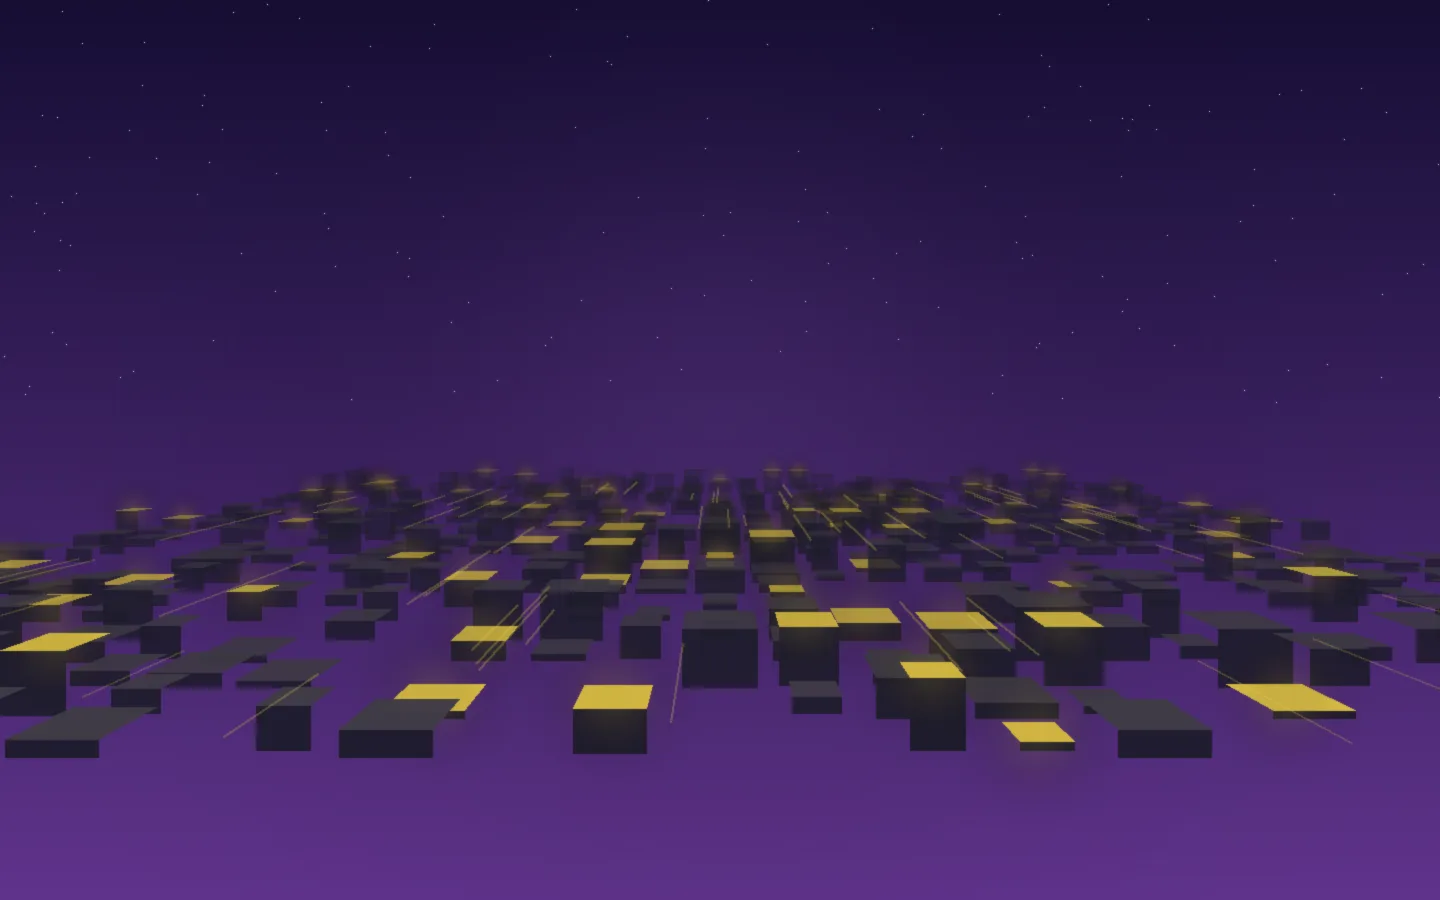
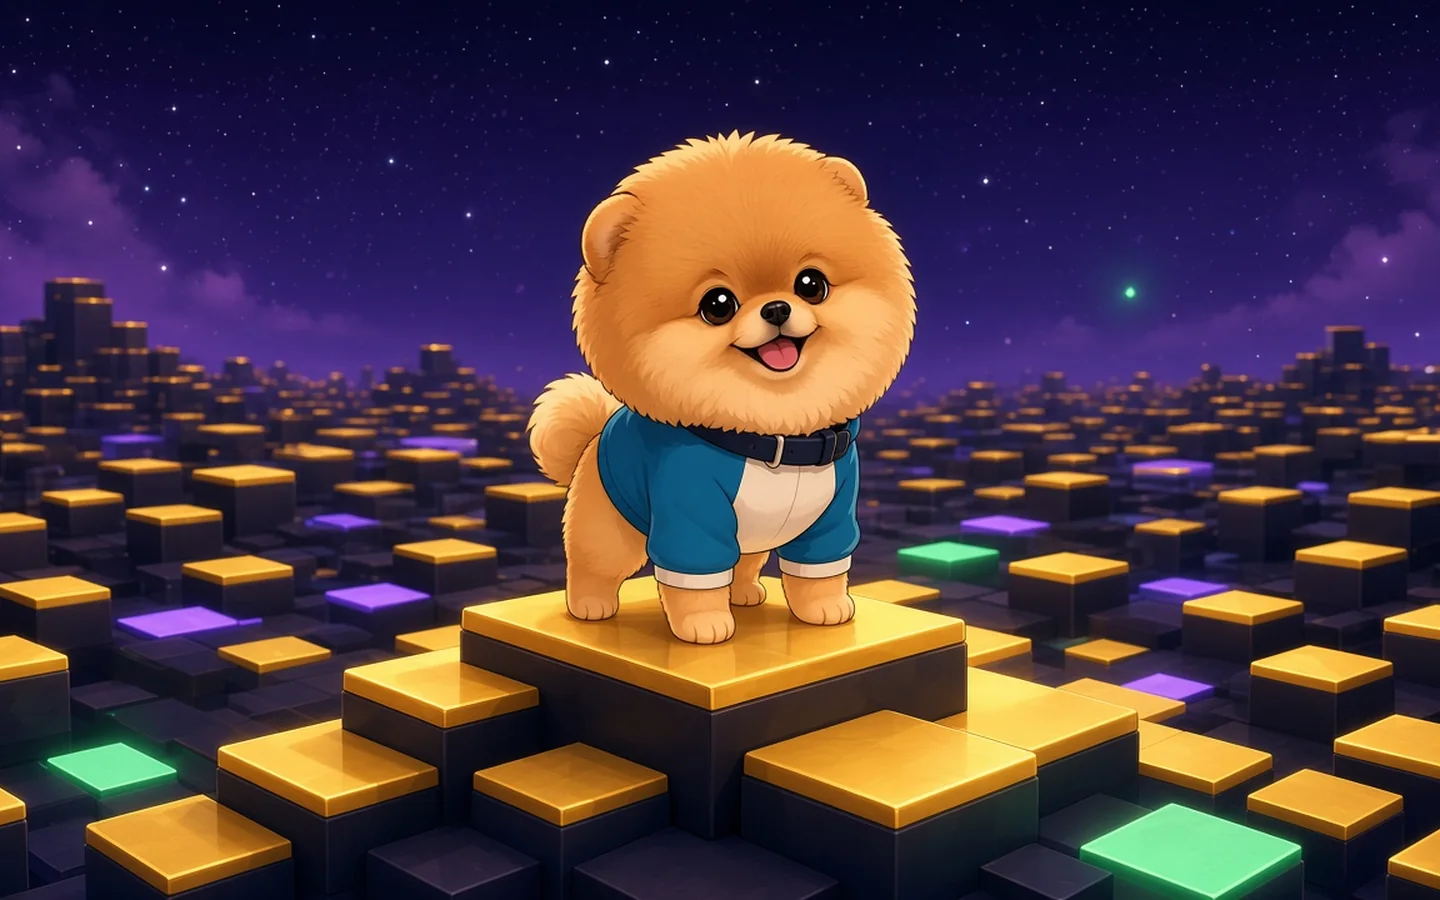
jiffpom: new meme, character and background images (#43)
Replace placeholder backgrounds and logo stand-ins with illustrated Jiff Pom art in the die-floor template slots.

diff --git a/jiffpom/index.html b/jiffpom/index.html
@@ -504,7 +504,7 @@ html.reduced-motion .mx3d-tilt{transform:none!important}
 /* ===== c55-gigahug-diefloor ===== */
 /* c55-gigahug-diefloor — adapted from https://gigahug.top/ (layout/type/motion language only; no source branding, mascot or copy).
    Art direction: a character standing on a glowing extruded voxel "die floor" under a dusk-violet sky, climbing numbered levels L0→LID. */
-:root{--bg1:url(assets/tpl/bg1.webp?v=64a5d4e6);--bg2:url(assets/tpl/bg2.webp?v=18e8eb57);--bg3:url(assets/tpl/bg3.webp?v=cc3fbb24);--a:#f2d34a;--a2:#8a3fd1;--on:#171a30;--bg:#0c0d18;--bg-2:#130c18;--ink:#f6f4ea;--muted:#cbc8b4;--line:color-mix(in srgb,var(--ink) 14%,transparent);--panel:color-mix(in srgb,var(--bg-2) 72%,transparent);--glow:color-mix(in srgb,var(--a) 40%,transparent);--part:var(--a);--grad:linear-gradient(100deg,var(--a),color-mix(in srgb,var(--a) 55%,#fff));--display:'Schibsted Grotesk','Arial Black',sans-serif;--body:'Inter Tight',system-ui,sans-serif;--mono:'Martian Mono',ui-monospace,monospace;--dur-fast:160ms;--dur:520ms;--ease-out:cubic-bezier(.16,1,.3,1);--mq-speed:38s}
+:root{--bg1:url(assets/tpl/bg1.webp?v=01171034);--bg2:url(assets/tpl/bg2.webp?v=1210f903);--bg3:url(assets/tpl/bg3.webp?v=536915a4);--a:#f2d34a;--a2:#8a3fd1;--on:#171a30;--bg:#0c0d18;--bg-2:#130c18;--ink:#f6f4ea;--muted:#cbc8b4;--line:color-mix(in srgb,var(--ink) 14%,transparent);--panel:color-mix(in srgb,var(--bg-2) 72%,transparent);--glow:color-mix(in srgb,var(--a) 40%,transparent);--part:var(--a);--grad:linear-gradient(100deg,var(--a),color-mix(in srgb,var(--a) 55%,#fff));--display:'Schibsted Grotesk','Arial Black',sans-serif;--body:'Inter Tight',system-ui,sans-serif;--mono:'Martian Mono',ui-monospace,monospace;--dur-fast:160ms;--dur:520ms;--ease-out:cubic-bezier(.16,1,.3,1);--mq-speed:38s}
 html{background:var(--bg);scroll-padding-top:90px}html,body{overflow-x:clip!important}body{margin:0;color:var(--ink);background:var(--bg);font:16px/1.6 var(--body);-webkit-font-smoothing:antialiased}img{object-fit:contain}a{color:inherit;text-decoration:none}button{color:inherit;font:inherit}h1,h2,h3,p{margin:0}h2,h3{font-family:var(--display);letter-spacing:-.03em;line-height:1.02}h2{font-size:clamp(36px,5vw,72px);font-weight:900}h3{font-size:22px;font-weight:800}section{position:relative;padding:110px 0}.wrap{width:min(1240px,calc(100% - 64px));margin-inline:auto;position:relative;z-index:2}.hl{color:var(--a)}
 .lvl{font:500 11px var(--mono);letter-spacing:.2em;text-transform:uppercase;color:var(--a);margin-bottom:18px;display:block}.lede{color:var(--muted);font-size:17px;max-width:56ch;margin-top:18px}
 .nav{position:fixed;z-index:80;left:0;right:0;top:0;min-height:68px;padding:12px 4vw;display:flex;align-items:center;justify-content:space-between;gap:20px;background:linear-gradient(color-mix(in srgb,var(--bg) 88%,transparent),transparent)}.brand{display:flex;gap:10px;align-items:center;min-width:0;font:900 18px var(--display);letter-spacing:-.02em}.brand img{width:36px;height:36px;border-radius:9px}.brand span{overflow:hidden;text-overflow:ellipsis;white-space:nowrap;max-width:220px}.nav-links{display:flex;gap:22px;font:400 12px var(--mono)}.nav-links a{padding-block:12px;color:var(--ink)}.nav-links a b{color:var(--a);font-weight:500;margin-right:6px}
@@ -544,16 +544,16 @@ a:focus-visible,button:focus-visible{outline:2px solid var(--a);outline-offset:4
 <section class="hero"><div class="bg-slot slot-one" data-bg="1" aria-hidden="true"></div><div class="wrap"><div class="hero-copy"><span class="lvl">L0 · DIE FLOOR · $JIFFPOM</span><h1 class="wordmark" data-dd-fit="250">Jiff Pom</h1></div>
 <div class="hero-grid"><div class="hero-copy"><p class="statement">Every holder a connection. <span class="hl">One community, fully powered.</span></p><p class="lede">The most memeable Jiff Pom on Solana. The most famous dog on social media</p><div class="cta-row"><a class="btn btn-main btn-shine btn-pulse" href="https://pump.fun/coin/2q8rC13SDcA3rcXHw5CoNux3bAMa5k7fje2JpZ8Ppump" data-buy data-magnetic><img class="dexic" src="assets/dex.png?v=111fa3a9" alt="Pump.fun"> Buy $JIFFPOM <span class="dexon">on Pump.fun</span></a><a class="btn btn-ghost" href="#core">Climb to the core ↑</a></div>
 <div class="ca-card"><span class="lvl">CONTRACT · KEEP IT CLOSE</span><div class="ca-box"><span class="ca-text">2q8rC13SDcA3rcXHw5CoNux3bAMa5k7fje2JpZ8Ppump</span><button class="copy-btn" data-copy type="button" aria-label="Copy contract address"><svg class="ico" viewBox="0 0 24 24" aria-hidden="true"><path d="M16 1H4a2 2 0 00-2 2v14h2V3h12zm3 4H8a2 2 0 00-2 2v14a2 2 0 002 2h11a2 2 0 002-2V7a2 2 0 00-2-2zm0 16H8V7h11z"/></svg> Copy</button></div><div class="chips"><a href="https://dexscreener.com/solana/2q8rC13SDcA3rcXHw5CoNux3bAMa5k7fje2JpZ8Ppump?embed=1&amp;loadChartSettings=0&amp;trades=0&amp;tabs=0&amp;info=0&amp;chartLeftToolbar=0&amp;chartTheme=dark&amp;theme=dark&amp;chartStyle=1&amp;chartType=usd&amp;interval=15"><svg class="ico" viewBox="0 0 24 24" aria-hidden="true"><path d="M3 3h2v16h16v2H3zm4 11l4-4 3 3 5-6 1.5 1.3L14 16l-3-3-2.6 2.6z"/></svg> Chart</a><a href="https://x.com/jiffpommeme"><svg class="ico" viewBox="0 0 24 24" aria-hidden="true"><path d="M18.244 2.25h3.308l-7.227 8.26 8.502 11.24H16.17l-5.214-6.817L4.99 21.75H1.68l7.73-8.835L1.254 2.25H8.08l4.713 6.231zm-1.161 17.52h1.833L7.084 4.126H5.117z"/></svg> X</a><a href=""><svg class="ico" viewBox="0 0 24 24" aria-hidden="true"><path d="M9.78 18.65l.28-4.23 7.68-6.92c.34-.31-.07-.46-.52-.19L7.74 13.3 3.64 12c-.88-.25-.89-.86.2-1.3l15.97-6.16c.73-.33 1.43.18 1.15 1.3l-2.72 12.81c-.19.91-.74 1.13-1.5.71L12.6 16.3l-1.99 1.93c-.23.23-.42.42-.83.42z"/></svg> Telegram</a></div></div><p class="status">PIN 1 CONNECTED · Solana ONLINE</p></div>
-<div class="hero-char"><img class="gchar" src="assets/logo.png?v=ca115d16" alt="Jiff Pom character on the die floor" width="420" height="560" fetchpriority="high"><span class="callout" aria-hidden="true">TAP THE CORE · L0</span></div></div></div></section>
+<div class="hero-char"><img class="gchar" src="assets/char1.webp?v=6a324efd" alt="Jiff Pom character on the die floor" width="420" height="560" fetchpriority="high"><span class="callout" aria-hidden="true">TAP THE CORE · L0</span></div></div></div></section>
 <div class="ribbon mq" aria-label="Level ticker"><div class="mq-track"><span>L0 DIE FLOOR</span><span>$JIFFPOM</span><span>L1 THE STORY</span><span>Jiff Pom</span><span>L2 THE CORE</span><span>Solana</span><span>L5 THE PINS</span></div></div>
 <section id="story" class="story"><div class="wrap"><div class="rv"><span class="lvl">L1 · THE STORY · A SMALL SIGNAL</span><h2>It started with one spark. <span class="hl">Jiff Pom kept it glowing.</span></h2><p class="lede">One tiny signal on Solana, then another, then a whole floor lighting up. Every frame below is a moment the community made.</p></div>
-<div class="frames rv-stagger"><figure class="frame" data-tilt><img class="gimg" src="assets/logo.png?v=ca115d16" alt="Jiff Pom community meme 1" loading="lazy"><figcaption>FRAME 01 · THE SPARK</figcaption></figure><figure class="frame" data-tilt><img class="gimg" src="assets/logo.png?v=ca115d16" alt="Jiff Pom community meme 2" loading="lazy"><figcaption>FRAME 02 · THE CONNECTION</figcaption></figure><figure class="frame" data-tilt><img class="gimg" src="assets/logo.png?v=ca115d16" alt="Jiff Pom community meme 3" loading="lazy"><figcaption>FRAME 03 · FULL POWER</figcaption></figure></div></div></section>
-<section id="core" class="core"><div class="bg-slot slot-two" data-bg="2" aria-hidden="true"></div><div class="wrap rv"><span class="lvl">L2 · THE CORE · ASSEMBLY IN PROGRESS</span><div class="chip-stage" aria-hidden="true"><div class="chip"><i></i><i></i><i></i></div><div class="chip-char"><img class="gchar" src="assets/logo.png?v=ca115d16" alt="Jiff Pom character holding the core" loading="lazy"></div></div><h2>Every holder is a circuit. <em>Together we light the whole board — $JIFFPOM at the center.</em></h2></div></section>
+<div class="frames rv-stagger"><figure class="frame" data-tilt><img class="gimg" src="assets/meme1.webp?v=88bbae40" alt="Jiff Pom community meme 1" loading="lazy"><figcaption>FRAME 01 · THE SPARK</figcaption></figure><figure class="frame" data-tilt><img class="gimg" src="assets/meme2.webp?v=31720bc9" alt="Jiff Pom community meme 2" loading="lazy"><figcaption>FRAME 02 · THE CONNECTION</figcaption></figure><figure class="frame" data-tilt><img class="gimg" src="assets/meme3.webp?v=408eb9c1" alt="Jiff Pom community meme 3" loading="lazy"><figcaption>FRAME 03 · FULL POWER</figcaption></figure></div></div></section>
+<section id="core" class="core"><div class="bg-slot slot-two" data-bg="2" aria-hidden="true"></div><div class="wrap rv"><span class="lvl">L2 · THE CORE · ASSEMBLY IN PROGRESS</span><div class="chip-stage" aria-hidden="true"><div class="chip"><i></i><i></i><i></i></div><div class="chip-char"><img class="gchar" src="assets/char2.webp?v=99ab8072" alt="Jiff Pom character holding the core" loading="lazy"></div></div><h2>Every holder is a circuit. <em>Together we light the whole board — $JIFFPOM at the center.</em></h2></div></section>
 <section id="support"><div class="wrap"><div class="rv"><span class="lvl">L3 · WIRING DECK · THREE LIVE LINES</span><h2>Every line is <span class="hl">open.</span></h2></div><div class="lines rv-stagger"><article class="line-card"><small>LINE I</small><h3>Plug in</h3><p>Find $JIFFPOM on Solana, read the contract, join the people already wired in.</p><span class="tag">SIGNAL · STRONG</span></article><article class="line-card"><small>LINE II</small><h3>Stay connected</h3><p>Memes, raids and late-night chats. The board stays lit because the crowd keeps showing up.</p><span class="tag">UPTIME · ALL DAY</span></article><article class="line-card"><small>LINE III</small><h3>Power others</h3><p>Share the art, bring a friend, keep Jiff Pom warm. Every new connection adds a light to the floor.</p><span class="tag">LOAD · GROWING</span></article></div></div></section>
 <section id="bench" class="bench"><div class="wrap bench-grid"><div class="rv"><span class="lvl">L4 · TEST BENCH · ON-CHAIN SIGNAL</span><h2>Check the <span class="hl">readings.</span></h2><div class="stats"><div class="stat"><small>SUPPLY</small><strong>1,000,000,000</strong></div><div class="stat"><small>TAX</small><strong>0/0</strong></div><div class="stat"><small>LIQUIDITY</small><strong>Burned</strong></div></div><div class="squeeze"><button type="button" data-dd-squeeze>Hold to charge ⚡</button><span>Charge level: <b data-dd-count>0</b></span></div><div class="cta-row"><a class="btn btn-ghost" href="https://dexscreener.com/solana/2q8rC13SDcA3rcXHw5CoNux3bAMa5k7fje2JpZ8Ppump?embed=1&amp;loadChartSettings=0&amp;trades=0&amp;tabs=0&amp;info=0&amp;chartLeftToolbar=0&amp;chartTheme=dark&amp;theme=dark&amp;chartStyle=1&amp;chartType=usd&amp;interval=15">Open the chart <svg class="ico" viewBox="0 0 24 24" aria-hidden="true"><path d="M3 3h2v16h16v2H3zm4 11l4-4 3 3 5-6 1.5 1.3L14 16l-3-3-2.6 2.6z"/></svg></a></div></div>
-<div class="gal rv-stagger"><figure><img class="gimg" src="assets/logo.png?v=ca115d16" alt="Jiff Pom community meme 4" loading="lazy"><figcaption>BENCH 04</figcaption></figure><figure><img class="gimg" src="assets/logo.png?v=ca115d16" alt="Jiff Pom community meme 5" loading="lazy"><figcaption>BENCH 05</figcaption></figure><figure><img class="gimg" src="assets/logo.png?v=ca115d16" alt="Jiff Pom community meme 6" loading="lazy"><figcaption>BENCH 06</figcaption></figure></div></div></section>
+<div class="gal rv-stagger"><figure><img class="gimg" src="assets/meme4.webp?v=33e77133" alt="Jiff Pom community meme 4" loading="lazy"><figcaption>BENCH 04</figcaption></figure><figure><img class="gimg" src="assets/meme5.webp?v=2b2a2f62" alt="Jiff Pom community meme 5" loading="lazy"><figcaption>BENCH 05</figcaption></figure><figure><img class="gimg" src="assets/meme6.webp?v=1109373a" alt="Jiff Pom community meme 6" loading="lazy"><figcaption>BENCH 06</figcaption></figure></div></div></section>
 <section id="buy"><div class="wrap"><div class="rv"><span class="lvl">L5 · THE PINS · MAKE THE CONNECTION</span><h2>Three pins to <span class="hl">connect.</span></h2></div><ol class="pins rv-stagger"><li class="pin"><small>PIN 1 · WALLET</small><h3>Get a wallet</h3><p>Install Phantom. Keep your seed phrase to yourself — always.</p></li><li class="pin"><small>PIN 2 · POWER</small><h3>Add SOL</h3><p>Fund it with SOL on Solana and leave a little for fees.</p></li><li class="pin"><small>PIN 3 · CONNECT</small><h3>Swap for $JIFFPOM</h3><p>Paste the contract on Pump.fun, double-check it, then swap.</p></li></ol><div class="cta-row rv"><a class="btn btn-main btn-shine btn-pulse" href="https://pump.fun/coin/2q8rC13SDcA3rcXHw5CoNux3bAMa5k7fje2JpZ8Ppump" data-buy><img class="dexic" src="assets/dex.png?v=111fa3a9" alt="Pump.fun"> Buy $JIFFPOM <span class="dexon">on Pump.fun</span></a></div></div></section>
-<section class="lid"><div class="bg-slot slot-three" data-bg="3" aria-hidden="true"></div><div class="wrap rv"><span class="lvl">LID · TOP · THE WHOLE BOARD</span><p class="wordmark" data-fit aria-hidden="true">Jiff Pom</p><p class="big">Some connections never let go.</p><div class="lid-char"><img class="gchar" src="assets/logo.png?v=ca115d16" alt="Jiff Pom character at the top" loading="lazy"></div><div class="cta-row"><a class="btn btn-main btn-shine" href="https://pump.fun/coin/2q8rC13SDcA3rcXHw5CoNux3bAMa5k7fje2JpZ8Ppump" data-buy><img class="dexic" src="assets/dex.png?v=111fa3a9" alt="Pump.fun"> Buy $JIFFPOM <span class="dexon">on Pump.fun</span></a></div></div></section></main>
+<section class="lid"><div class="bg-slot slot-three" data-bg="3" aria-hidden="true"></div><div class="wrap rv"><span class="lvl">LID · TOP · THE WHOLE BOARD</span><p class="wordmark" data-fit aria-hidden="true">Jiff Pom</p><p class="big">Some connections never let go.</p><div class="lid-char"><img class="gchar" src="assets/char3.webp?v=7e97ff54" alt="Jiff Pom character at the top" loading="lazy"></div><div class="cta-row"><a class="btn btn-main btn-shine" href="https://pump.fun/coin/2q8rC13SDcA3rcXHw5CoNux3bAMa5k7fje2JpZ8Ppump" data-buy><img class="dexic" src="assets/dex.png?v=111fa3a9" alt="Pump.fun"> Buy $JIFFPOM <span class="dexon">on Pump.fun</span></a></div></div></section></main>
 <div class="xlinks" data-xlinks><a href="https://x.com/jiffpommeme" target="_blank" rel="noopener"><svg class="ico" viewBox="0 0 24 24" aria-hidden="true"><path fill-rule="evenodd" d="M18.244 2.25h3.308l-7.227 8.26 8.502 11.24H16.17l-5.214-6.817L4.99 21.75H1.68l7.73-8.835L1.254 2.25H8.08l4.713 6.231zm-1.161 17.52h1.833L7.084 4.126H5.117z"/></svg><span>X</span></a></div>
 <footer class="footer"><div class="wrap"><div class="footer-row"><a href="#top" class="brand"><img src="assets/logo.png?v=ca115d16" alt="Jiff Pom logo"><span>Jiff Pom</span></a><a class="back" href="#top">Back to the die floor ↓</a><div class="socials"><a data-s href="https://x.com/jiffpommeme" aria-label="X / Twitter"><svg class="ico" viewBox="0 0 24 24" aria-hidden="true"><path d="M18.244 2.25h3.308l-7.227 8.26 8.502 11.24H16.17l-5.214-6.817L4.99 21.75H1.68l7.73-8.835L1.254 2.25H8.08l4.713 6.231zm-1.161 17.52h1.833L7.084 4.126H5.117z"/></svg></a><a data-s href="" aria-label="Telegram"><svg class="ico" viewBox="0 0 24 24" aria-hidden="true"><path d="M9.78 18.65l.28-4.23 7.68-6.92c.34-.31-.07-.46-.52-.19L7.74 13.3 3.64 12c-.88-.25-.89-.86.2-1.3l15.97-6.16c.73-.33 1.43.18 1.15 1.3l-2.72 12.81c-.19.91-.74 1.13-1.5.71L12.6 16.3l-1.99 1.93c-.23.23-.42.42-.83.42z"/></svg></a><a data-s href="https://dexscreener.com/solana/2q8rC13SDcA3rcXHw5CoNux3bAMa5k7fje2JpZ8Ppump" aria-label="Dexscreener"><svg class="ico" viewBox="0 0 24 24" aria-hidden="true"><path d="M3 3h2v16h16v2H3zm4 11l4-4 3 3 5-6 1.5 1.3L14 16l-3-3-2.6 2.6z"/></svg></a></div></div><p class="legal">© <span data-year></span> Jiff Pom · $JIFFPOM · Solana<br>$JIFFPOM is a community meme coin made for fun. It has no intrinsic value and no expectation of financial return. Nothing here is financial advice. Only spend what you can afford to lose.</p></div></footer>
 <div id="toast" role="status" aria-live="polite"></div>
